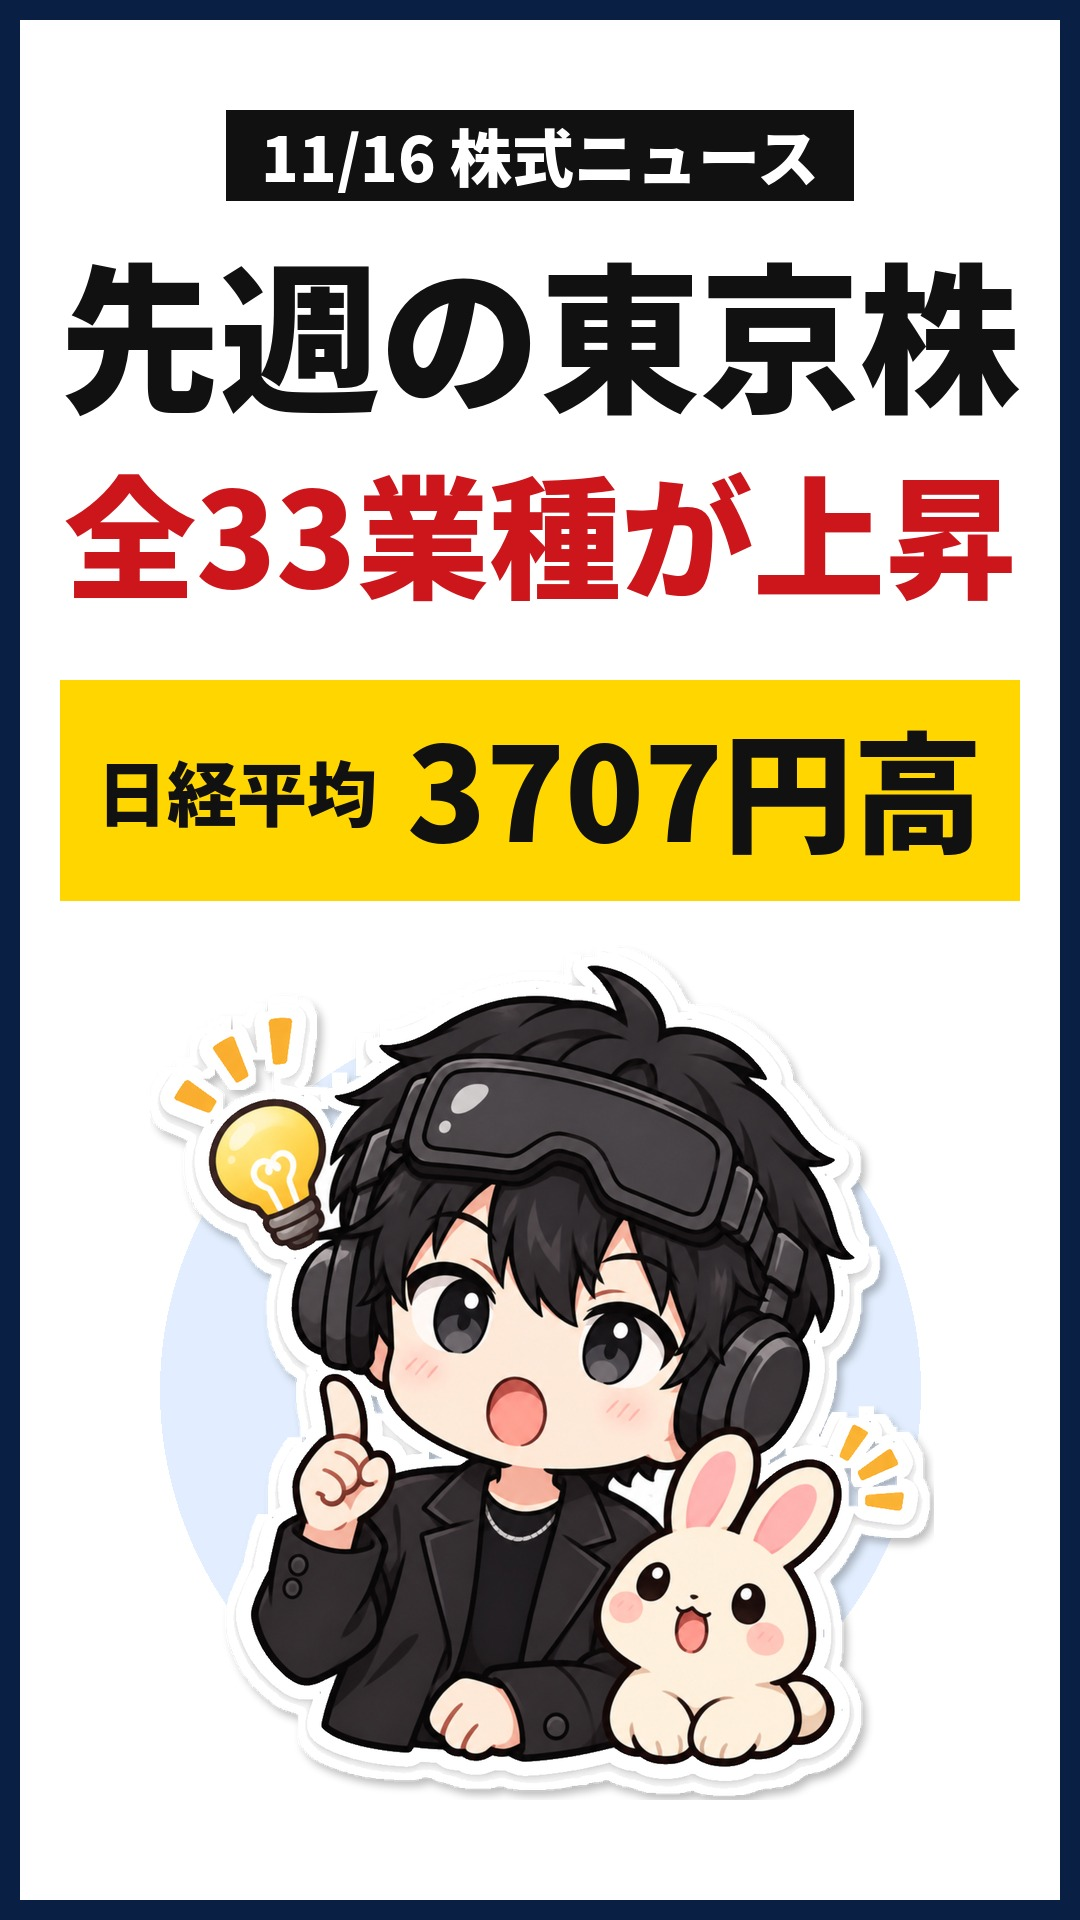
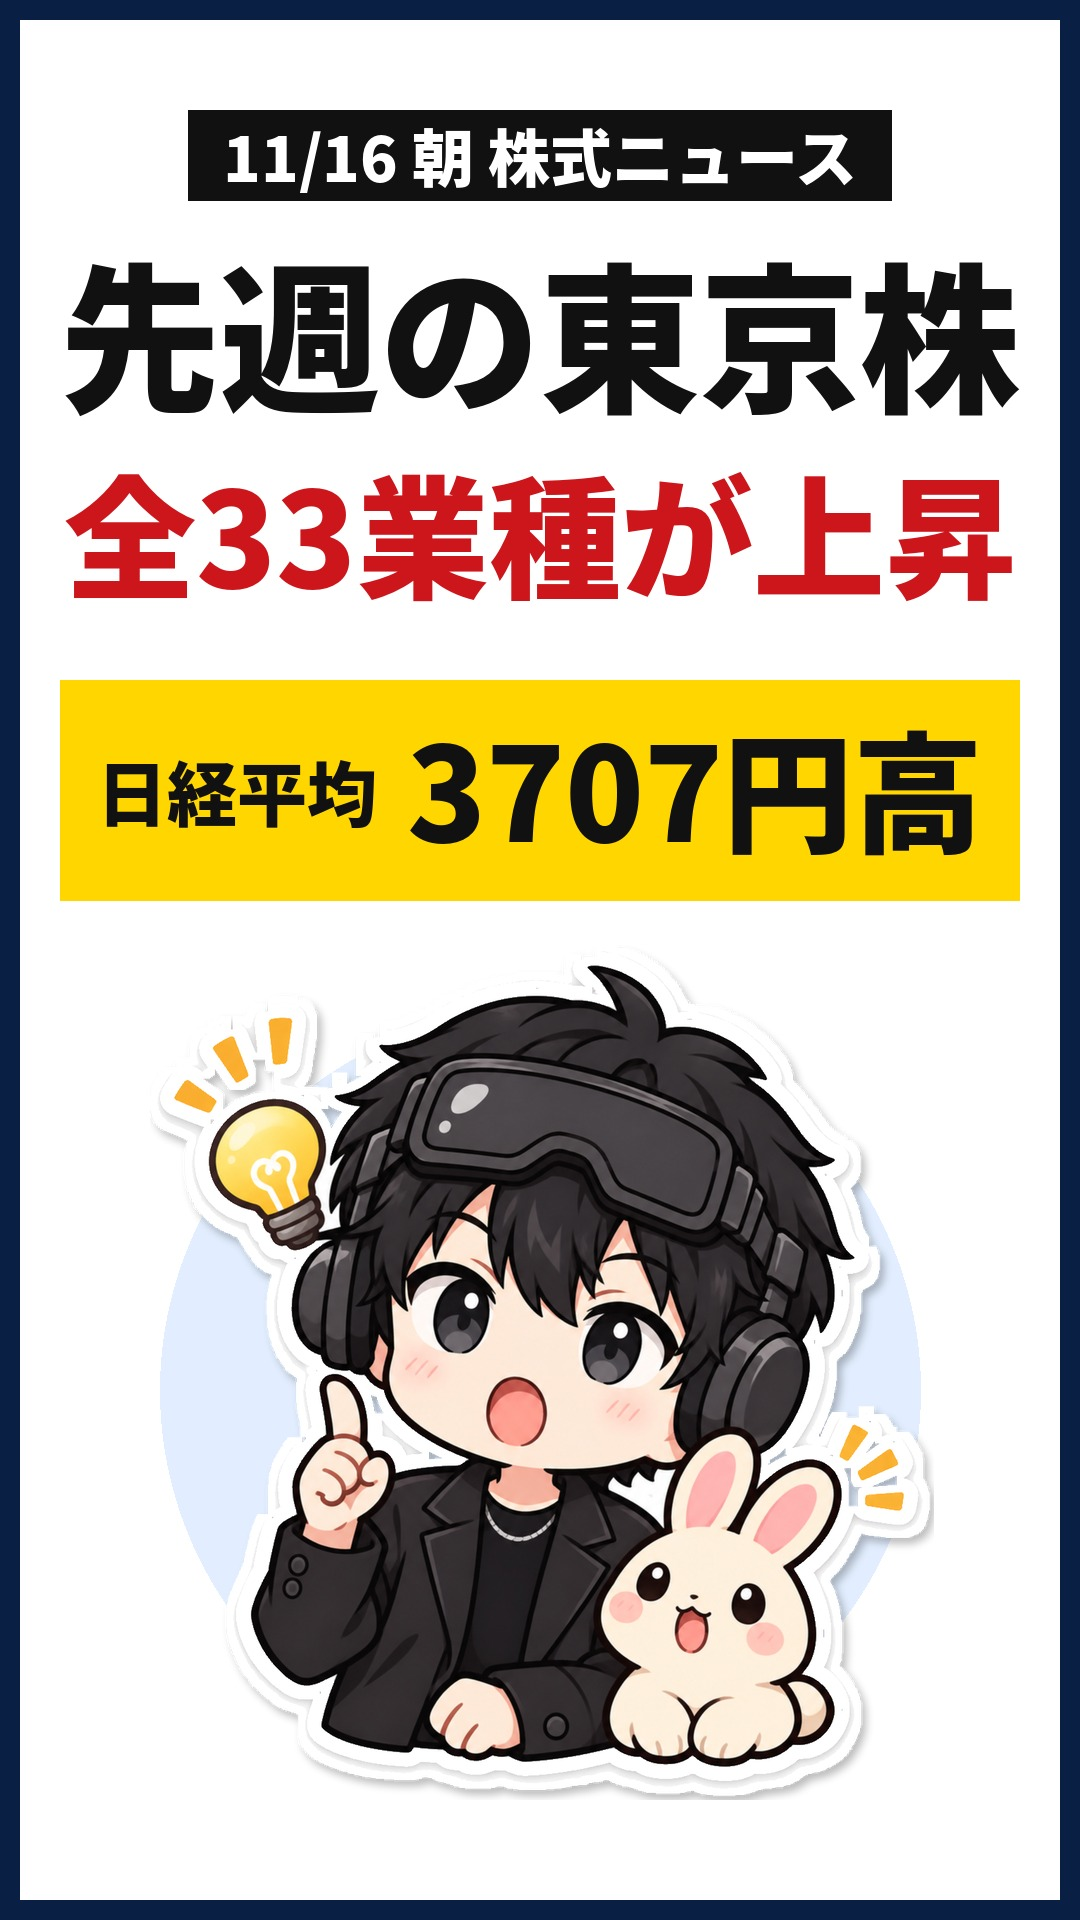
n1116: サムネの見出しに「朝」を追加
Claude-Session: https://claude.ai/code/session_013hiH6za3Uj3x76wwv8ptWW

Changed region(s): [[0.275, 0.0312, 0.825, 0.125], [0.1528, 0.0312, 0.2444, 0.125]]

diff --git a/n1116/index.html b/n1116/index.html
@@ -3,12 +3,12 @@
 <h1>2026年11月16日の株式ニュース</h1>
 <p>日曜日の回（アメリカの金曜日の取引・先物と為替・1週間の東京の株・来週の予定／事実のみ）。声は ElevenLabs の Colne の声（今日だけ）。チャートは TradingView（5分足）</p>
 <h2>横動画（8分27秒・時刻の読みを直した版）</h2>
-<video src="yoko08.mp4?v=1116" poster="yoko08.jpg?v=1116" controls playsinline preload="metadata"></video>
-<p><a href="yoko08.mp4?v=1116">動画だけを開く</a></p>
+<video src="yoko08.mp4?v=1116b" poster="yoko08.jpg?v=1116b" controls playsinline preload="metadata"></video>
+<p><a href="yoko08.mp4?v=1116b">動画だけを開く</a></p>
 <h2>ショート（55秒）</h2>
-<div class="s"><video src="short08.mp4?v=1116" poster="short08.jpg?v=1116" controls playsinline preload="metadata"></video></div>
-<p><a href="short08.mp4?v=1116">動画だけを開く</a></p>
-<h2>サムネ</h2><img src="thumb_yoko_1116.jpg?v=1116" alt="横のサムネ"><div class="s"><img src="thumb_short_1116.jpg?v=1116" alt="ショートのサムネ"></div>
+<div class="s"><video src="short08.mp4?v=1116b" poster="short08.jpg?v=1116b" controls playsinline preload="metadata"></video></div>
+<p><a href="short08.mp4?v=1116b">動画だけを開く</a></p>
+<h2>サムネ</h2><img src="thumb_yoko_1116.jpg?v=1116bb" alt="横のサムネ"><div class="s"><img src="thumb_short_1116.jpg?v=1116bb" alt="ショートのサムネ"></div>
 <h2>出典</h2><ul>
 <li>アメリカの株：MINKABU PRESS・株探（11/14 06:22・07:53）、フィスコ（11/14 07:33）</li>
 <li>日経平均先物・TOPIX先物ほか：株探（11/14 06:03）／シカゴ日経平均先物：株探（11/14 07:53）</li>
